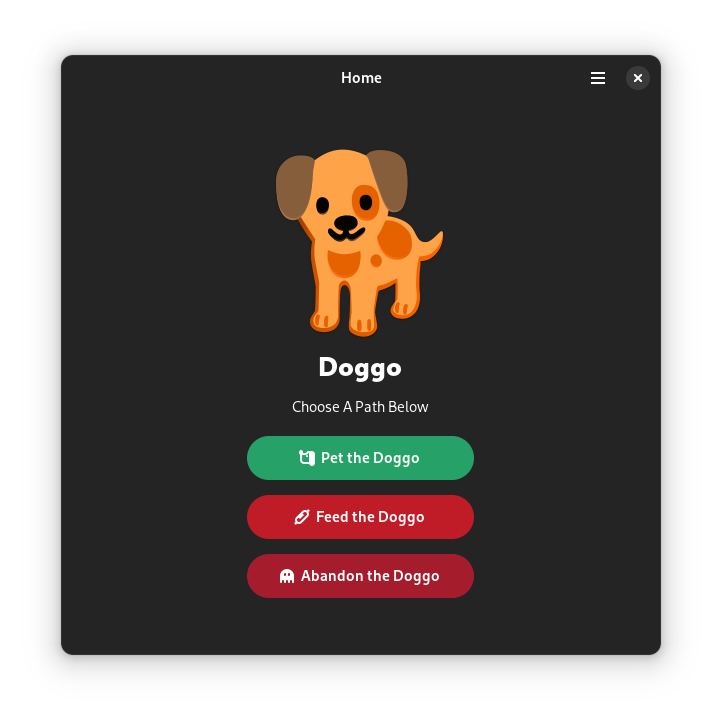
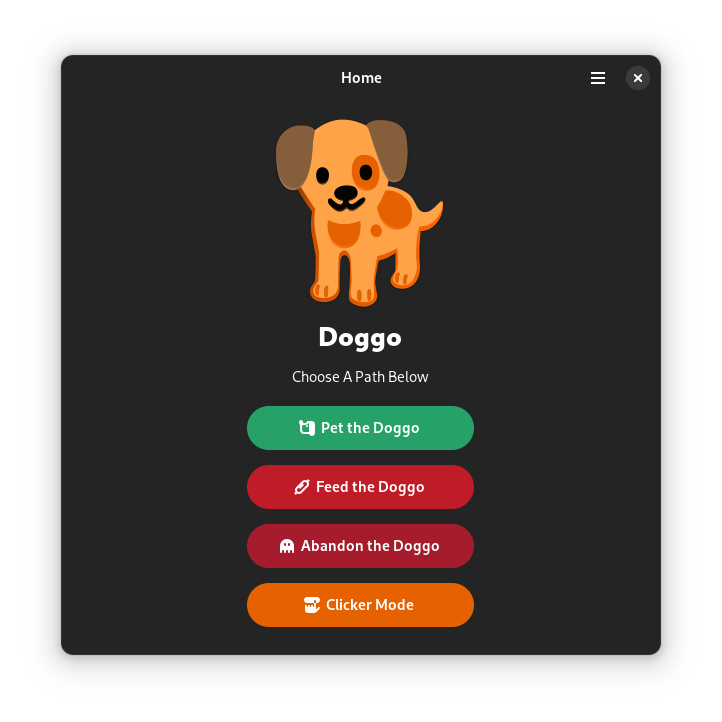
app: get ready for 4.0

Changed region(s): [[0.3352, 0.1524, 0.6704, 0.8837]]

diff --git a/data/ui/style.css b/data/ui/style.css
@@ -13,6 +13,11 @@
     background-color: @red_5;
 }
 
+.clickerbutton {
+    color: white;
+    background-color: @orange_4;
+}
+
 .UnfriendlyText {
   color: @red_2;
 }

diff --git a/src/window.c b/src/window.c
@@ -30,7 +30,7 @@ struct _DogWindow
 	AdwHeaderBar        *header_bar;
 	//GtkLabel            *wooflabel;
 	GtkLabel            *title_result;
-	GtkLabel            *smalltxt;
+	GtkLabel            *clickslabel;
 	AdwNavigationView   *navigationview1;
 };
 
@@ -44,6 +44,7 @@ dog_window_class_init (DogWindowClass *klass)
 	gtk_widget_class_set_template_from_resource (widget_class, "/page/codeberg/SOrg/DogGTK/window.ui");
 	gtk_widget_class_bind_template_child (widget_class, DogWindow, header_bar);
 	gtk_widget_class_bind_template_child (widget_class, DogWindow, navigationview1);
+	gtk_widget_class_bind_template_child (widget_class, DogWindow, clickslabel);
 }
 
 enum Choices {
@@ -66,6 +67,9 @@ enum Results_Feed {
   DISLIKE_FOOD,
   DEAD_FOOD
 };
+
+int clickamount;
+char clickamountmax[1000000]; // Set it to a large number just in case a no-life gets way too many clicks.
 
 static void
 display_result_pet (DogWindow *self) {
@@ -152,6 +156,28 @@ abandon (DogWindow *self) {
 }
 
 static void
+clicker_show (DogWindow *self) {
+	g_print ("Clicker Mode\n");
+	adw_navigation_view_pop (self->navigationview1);
+	adw_navigation_view_push_by_tag (self->navigationview1, "dog_clicker_page");
+}
+
+static void
+click (DogWindow *self) {
+	clickamount = clickamount + 1;
+	sprintf(clickamountmax, "%d Clicks", clickamount);
+	g_print ("%s\n", clickamountmax);
+	gtk_label_set_label (self->clickslabel, clickamountmax);
+}
+
+static void
+secret1 (DogWindow *self) {
+	clickamount = clickamount + 1000000;
+	sprintf(clickamountmax, "%d Clicks", clickamount);
+	gtk_label_set_label (self->clickslabel, clickamountmax);
+}
+
+static void
 dog_window_init (DogWindow *self)
 {
 	gtk_widget_init_template (GTK_WIDGET (self));
@@ -160,4 +186,7 @@ dog_window_init (DogWindow *self)
 	register_gaction (self, "pet", G_CALLBACK(pet));
 	register_gaction (self, "feed", G_CALLBACK(feed));
 	register_gaction (self, "abandon", G_CALLBACK(abandon));
+	register_gaction (self, "clickershow", G_CALLBACK(clicker_show));
+	register_gaction (self, "click", G_CALLBACK(click));
+	register_gaction (self, "help", G_CALLBACK(secret1));
 }

diff --git a/src/application.c b/src/application.c
@@ -75,10 +75,10 @@ dog_application_about_action (GSimpleAction *action,
                               GVariant      *parameter,
                               gpointer       user_data)
 {
-	static const char *developers[] = {"sungsphinx", NULL};
-	static const char *artists[] = {"Google (Noto Color Emoji: Dog, base for App Icon)", "sungsphinx (App Icon)", NULL};
-	const char *special_thanks[] = {"Bruno (My Dog)", NULL};
-	const char *copyright = "© 2023 Silly Org, 2023 sungsphinx";
+	static const char *developers[] = {"Dexter https://sungsphinx.codeberg.page", NULL};
+	static const char *artists[] = {"Dexter https://sungsphinx.codeberg.page", NULL};
+	const char *special_thanks[] = {"Bruno (A Real Doggo)", NULL};
+	const char *copyright = "© 2023 Silly Org, 2023 Dexter Reed (sungsphinx)";
 
 
 	DogApplication *self = user_data;
@@ -163,5 +163,9 @@ dog_application_init (DogApplication *self)
 	gtk_application_set_accels_for_action (GTK_APPLICATION (self),
 	                                       "win.abandon",
 	                                       (const char *[]) { "<primary>b", NULL });
+
+	gtk_application_set_accels_for_action (GTK_APPLICATION (self),
+	                                       "win.clickershow",
+	                                       (const char *[]) { "<primary>c", NULL });
 }
 
